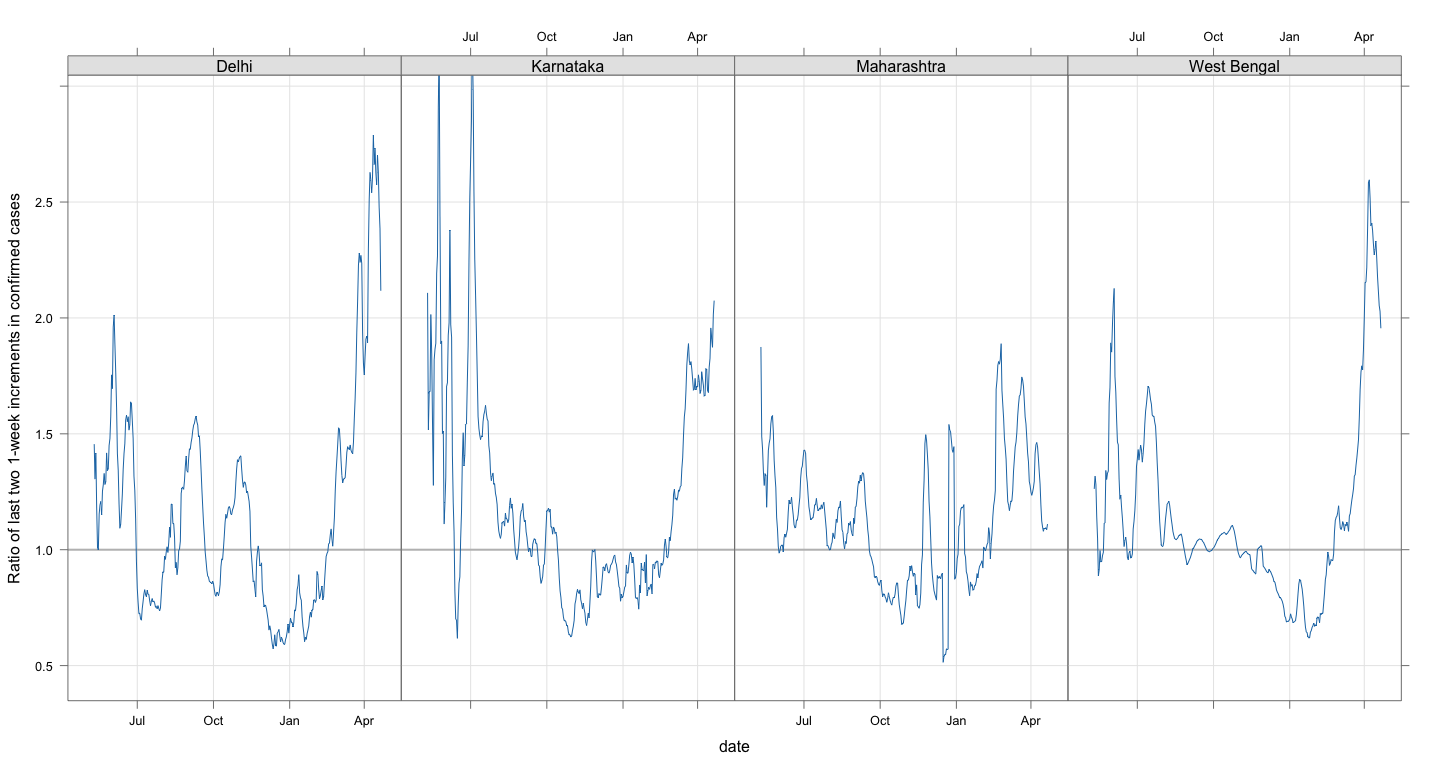
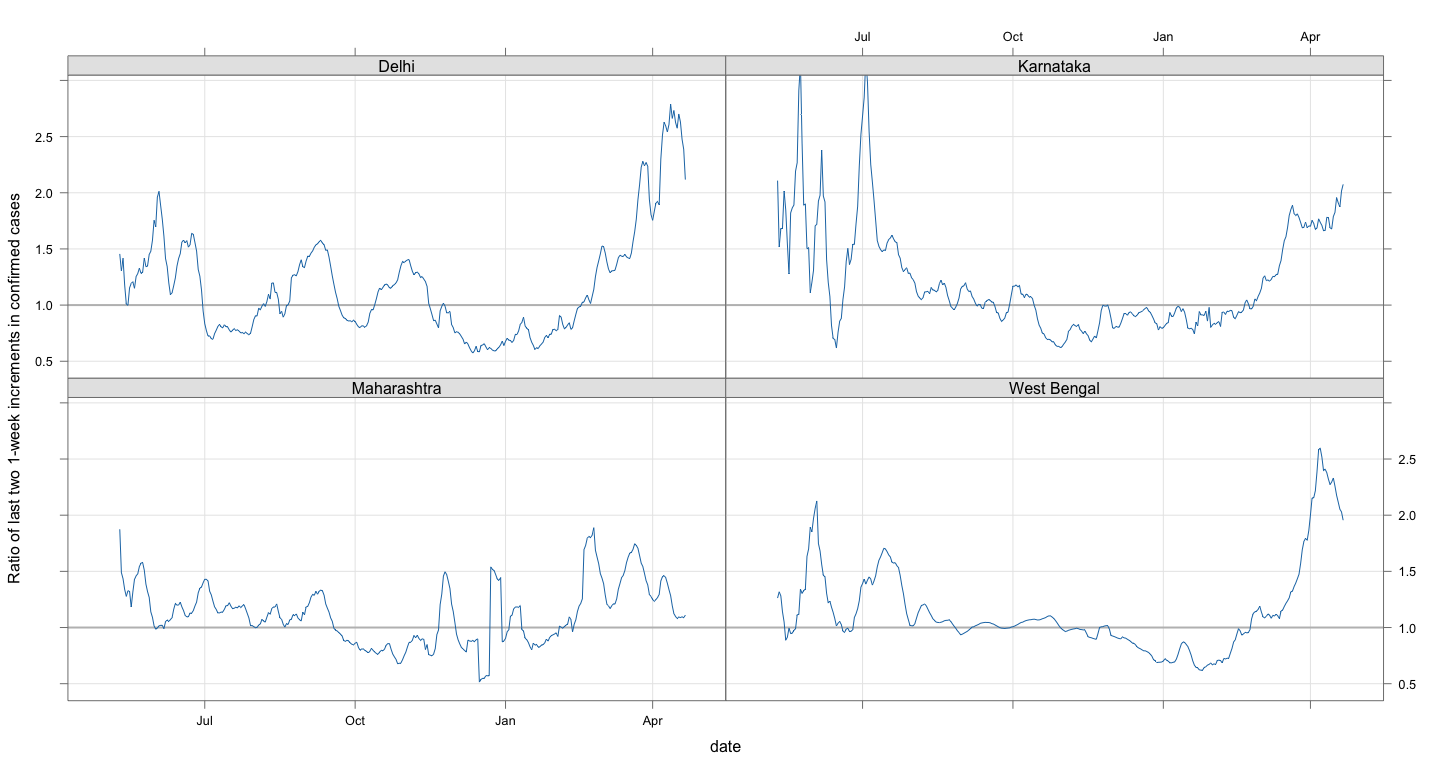
fix error

diff --git a/covid-19/increment-ratio.html b/covid-19/increment-ratio.html
@@ -52,21 +52,49 @@ mathjax: true
 .scrollable500[
 
 
-```
-Error in order(rstates$current, decreasing = TRUE): argument 1 is not a vector
-```
+|                                         | Current| One week ago|
+|:----------------------------------------|-------:|------------:|
+|Lakshadweep                              |    9.08|         1.60|
+|Arunachal Pradesh                        |    5.37|         3.19|
+|Nagaland                                 |    4.80|         1.78|
+|Manipur                                  |    3.51|         2.43|
+|Sikkim                                   |    2.81|         1.70|
+|Assam                                    |    2.56|         4.62|
+|Bihar                                    |    2.54|         3.64|
+|Odisha                                   |    2.52|         2.87|
+|Meghalaya                                |    2.39|         4.60|
+|Kerala                                   |    2.38|         2.23|
+|Mizoram                                  |    2.26|         5.06|
+|Uttarakhand                              |    2.15|         2.17|
+|Dadra and Nagar Haveli and Daman and Diu |    2.13|         3.82|
+|Delhi                                    |    2.12|         2.73|
+|Andaman and Nicobar Islands              |    2.09|         2.42|
+|Andhra Pradesh                           |    2.09|         2.11|
+|Rajasthan                                |    2.09|         2.53|
+|Karnataka                                |    2.07|         1.68|
+|Haryana                                  |    2.03|         1.83|
+|Uttar Pradesh                            |    2.02|         3.41|
+|West Bengal                              |    1.96|         2.30|
+|Goa                                      |    1.95|         1.64|
+|Gujarat                                  |    1.87|         1.89|
+|Madhya Pradesh                           |    1.84|         2.01|
+|Telangana                                |    1.83|         2.06|
+|Jharkhand                                |    1.75|         2.52|
+|Ladakh                                   |    1.69|         3.40|
+|Puducherry                               |    1.66|         1.69|
+|Himachal Pradesh                         |    1.62|         1.65|
+|Tamil Nadu                               |    1.60|         1.79|
+|Jammu and Kashmir                        |    1.55|         1.79|
+|Punjab                                   |    1.41|         1.11|
+|Chandigarh                               |    1.36|         1.27|
+|Chhattisgarh                             |    1.14|         1.89|
+|Maharashtra                              |    1.11|         1.12|
+|Tripura                                  |    0.93|         3.28|
 
 ]
 
 
 
-```
-Error in eval(substitute(subset), data, environment(x)): object 'total' not found
-```
-
-```
-Error in eval(expr, envir, enclos): object 'p' not found
-```
 
 ---
 
@@ -76,29 +104,17 @@ layout: true
 
 ---
 
+![plot of chunk unnamed-chunk-6](figures/incratio-unnamed-chunk-6-1.png)
 
-```
-Error in eval(expr, envir, enclos): object 'N' not found
-```
+---
+
+![plot of chunk unnamed-chunk-7](figures/incratio-unnamed-chunk-7-1.png)
+
+---
+
+![plot of chunk unnamed-chunk-8](figures/incratio-unnamed-chunk-8-1.png)
 
 ---
 
 
-```
-Error in eval(expr, envir, enclos): object 'N' not found
-```
-
----
-
-
-```
-Error in eval(expr, envir, enclos): object 'N' not found
-```
-
----
-
-
-```
-Error in eval(expr, envir, enclos): object 'N' not found
-```
 
